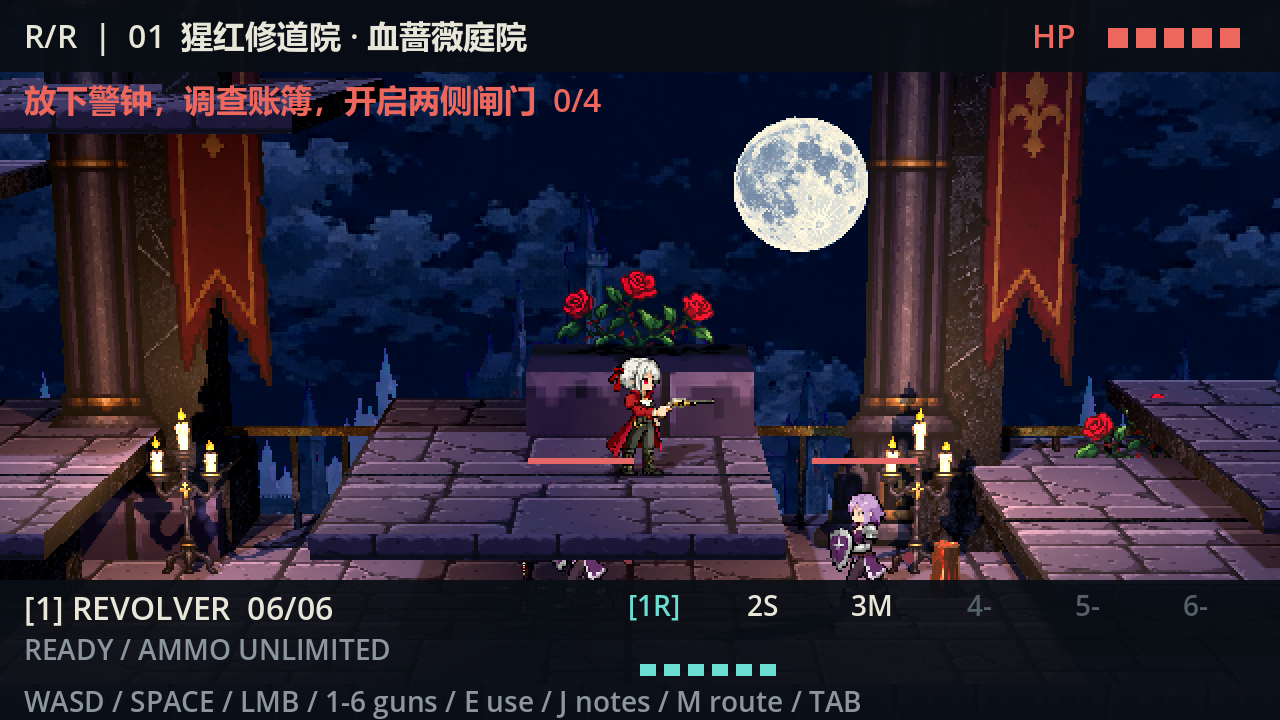
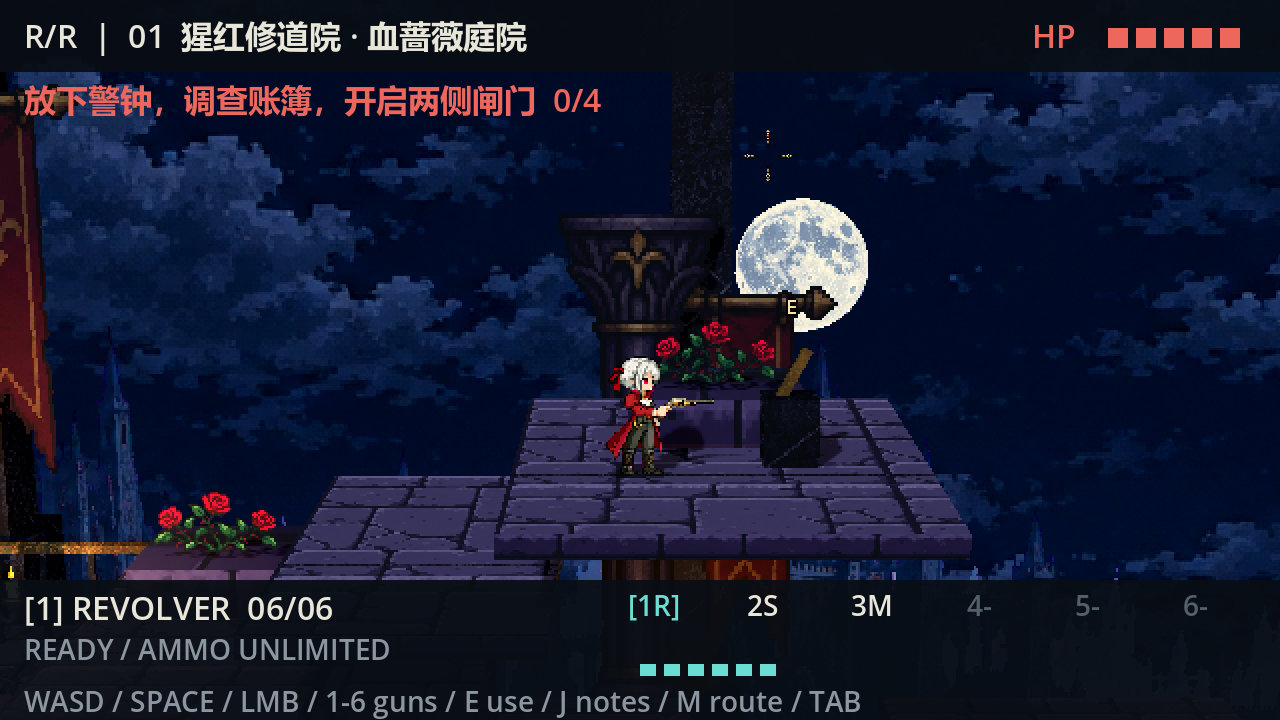
Keep roses clear of slabs and place columns behind platforms

diff --git a/docs/DECOR_SUPPORT.md b/docs/DECOR_SUPPORT.md
@@ -4,10 +4,16 @@
 
 现在栏杆按真实实体平台分段生成，立柱底部与平台顶面重合，边缘留出安装余量。机关平台的栏杆归入同一组可见物件，平台未放下时不会留下半空栏杆。其他落地装饰从关卡平台数据取得支撑面，并检查完整底面的横向范围与景深范围；找不到足够宽的实体面就不摆放。当前装饰只选永久平台作为底座，避免机关开启时发生位置跳变。书本底部与书架层板贴合，钟增加了接地立柱与吊杆。
 
-玫瑰采用 imagegen 绘制的 rose_bush_v1.png，含真实透明通道。整簇为一个固定平面的 Sprite3D，宽约 76 逻辑像素，保留最近邻采样并接受环境光。运行时按不透明包围区域定位花茎根部，略嵌入石花盆顶面；不使用圆柱花头、立方体花茎或随镜头旋转的立体花瓣。源图和提示词见 assets/environments/crimson/ROSE_SOURCE.md。
+玫瑰采用 imagegen 绘制的 rose_bush_v1.png，含真实透明通道。整簇为一个固定平面的 Sprite3D，宽约 58 逻辑像素，保留最近邻采样并接受环境光。运行时按不透明包围区域定位花茎根部，恰好贴合石花盆顶面；不使用圆柱花头、立方体花茎或随镜头旋转的立体花瓣。源图和提示词见 assets/environments/crimson/ROSE_SOURCE.md。
+
+用户补充要求玫瑰不能塞进地缝。因此花盆与花丛按完整摆放空间检查：底座必须全部受支撑，平台上方保留至少 90 逻辑像素的净空；尚未放下的机关桥也参与遮挡检查。当前只保留西侧踏台、西侧高廊和东侧高廊三处完整花丛，拒绝渠缝和低平台下面的摆放。花茎不得穿进石缝或依赖平台遮住底部。
 
 验证入口 tests/test_decor_support.gd：从旧实现复现了悬空和圆柱玫瑰失败，修复后检查栏杆、柱脚、花盆、书架、钟架与平台的真实底面接触，检查透明贴片及花茎根部，还覆盖机关栏杆显隐。tests/capture_environment.gd 增加渠底与外廊落脚点的近景截图。碰撞、通路、镜头控制和角色动作不由装饰改动。
 
-本轮完整运行 tools/run_checks.ps1，全部通过，新增装饰检查 16 项零失败。使用 RTX 3070 的实际 Godot 渲染检查五段关卡与两处近景；代表画面为 screenshots/rose_contact.png 和 screenshots/railing_contact.png。检查为固定场景渲染，不宣称人工键鼠试玩。账户本周期剩余 63%，按约定完成本项后记录、导出并同步主分支。
+新增净空检查在旧摆法上复现五簇花丛遮挡失败，重排后装饰检查 15 项零失败。使用 RTX 3070 的实际 Godot 渲染检查五段关卡与装饰近景；代表画面为 screenshots/rose_contact.png 和 screenshots/railing_contact.png。检查为固定场景渲染，不宣称人工键鼠试玩。账户本周期剩余 63%，按约定完成本项后记录、导出并同步主分支。
 
-唯一输出 builds/windows/RecoilRequiem.exe 已更新；从输出目录独立运行 120 帧，退出码 0，日志无错误。SHA256：7D2D7E90E0FBC8117F03047C2909C09193557681FAD772BF4B27A508867B21C3。
+柱子进一步修订：平台背面为 z=-1.175，柱身中心退到 -1.46，柱面贴图退到 -1.20；柱脚也完全位于平台后方。柱下石托的前面恰好贴合永久平台背面，顶面承接柱脚，不靠柱身穿过上层石板来支撑。栏杆仍安装在平台后沿，花盆在栏杆前侧、角色后侧。移除会挡住花丛的前景粗柱。
+
+最终装饰回归为 43 项零失败，新增柱身景深与石托接合检查。唯一输出为 builds/windows/RecoilRequiem.exe；最终修订后重新导出并验证。
+
+完整 tools/run_checks.ps1 通过；实际 GPU 截图覆盖五段关卡及近景，柱子层级代表图为 screenshots/column_depth.png。最终 EXE 在 RTX 3070 上启动运行 120 帧后正常退出，日志无错误。SHA256：108017E2050439685E11091DF76007458666FAC008D5461B166F23638AC20B0B。

diff --git a/docs/ART_STANDARD.md b/docs/ART_STANDARD.md
@@ -1,6 +1,8 @@
 # 《反冲挽歌》美术标准 v2
 
-2026-09-11 装饰接地修订：玫瑰使用独立二维像素花丛贴片，禁止以圆柱花头加直杆替代。栅栏、花盆、柱脚、书架、落地烛台等必须依据实际 PaperPlatform 平台定位，完整底面要落在可见实体表面内，不能仅在二维投影中看似相接。栏杆在地面高差和缺口处分段，随所属机关平台显示或隐藏。花茎不透明区域的底部接入花盆；纹理透明留白不能形成悬浮缝隙。悬挂物须有可见吊点或支架。见 [玫瑰与装饰接地修订](DECOR_SUPPORT.md)。
+后侧建筑柱必须全部位于平台背面之外，包括柱脚与柱面贴图；不可让柱身穿过可走平台。后置柱脚使用与永久平台背面相接的石托承重，不得移到背景后悬空。景深从后到前为建筑柱、平台后沿栏杆、盆栽等台面物件、角色战斗平面；实际遮挡使用三维深度，不用强制置顶补救穿插。
+
+2026-09-11 装饰接地修订：玫瑰使用独立二维像素花丛贴片，禁止以圆柱花头加直杆替代。栅栏、花盆、柱脚、书架、落地烛台等必须依据实际 PaperPlatform 平台定位，完整底面要落在可见实体表面内，不能仅在二维投影中看似相接。栏杆在地面高差和缺口处分段，随所属机关平台显示或隐藏。玫瑰必须完整摆在有净空的平台或花盆上，不得塞进石板夹缝、被上层平台切掉花头；未来放下的机关桥同样参与净空检查。花茎的不透明底端与盆面相接，不能靠插入石缝隐藏根部。悬挂物须有可见吊点或支架。见 [玫瑰与装饰接地修订](DECOR_SUPPORT.md)。
 
 2026-09-10 环境修订：天空、月亮、远处城堡必须独立分层，整张连续地图仅一个月亮。真实三维物件在正常模式均使用对应材质贴图，不能用纯色灰盒充当已完成美术；F6 诊断模式例外。金属、石材、木材、纸张、书皮、绳索及花叶各取独立纹理区域，禁止整张装饰图集重复铺满表面。层级、深度和检查入口见 [夜景分层与物件贴图](ENVIRONMENT_LAYERS.md)。本条覆盖下文旧的“钟、书架等仍为纯色灰盒”记录。
 

diff --git a/assets/environments/crimson/ROSE_SOURCE.md b/assets/environments/crimson/ROSE_SOURCE.md
@@ -1,6 +1,6 @@
 # 二维玫瑰花丛
 
-2026-09-11，内置 imagegen 生成，输出标识 exec-1a44a1fb-647c-4a85-8000-dd01289af332。源图直接保存为 rose_bush_v1.png，真实 RGBA 透明；不重画、不平滑缩小。运行时使用其不透明区域作为完整花丛贴片，脚底插入三维石花盆。
+2026-09-11，内置 imagegen 生成，输出标识 exec-1a44a1fb-647c-4a85-8000-dd01289af332。源图直接保存为 rose_bush_v1.png，真实 RGBA 透明；不重画、不平滑缩小。运行时使用其不透明区域作为完整花丛贴片，根部与三维石花盆顶面相接。
 
 提示词：
 
